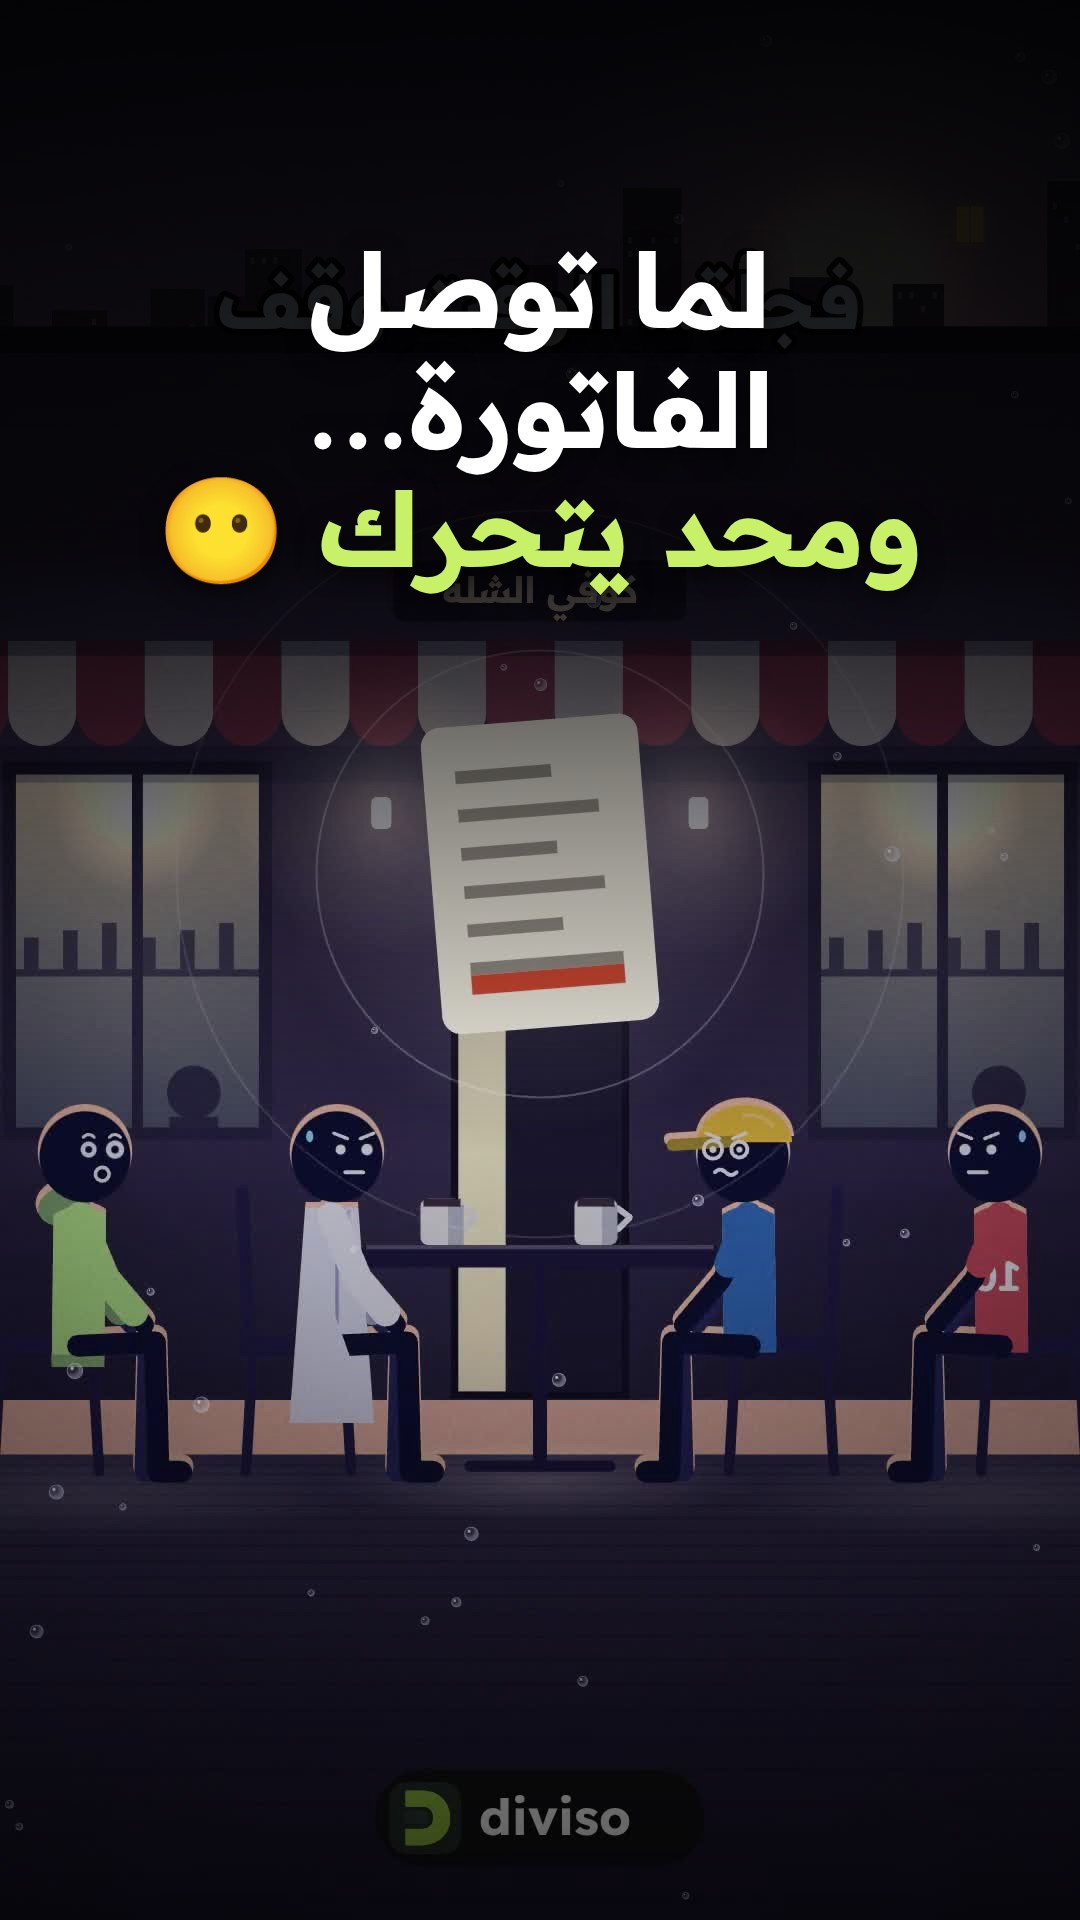
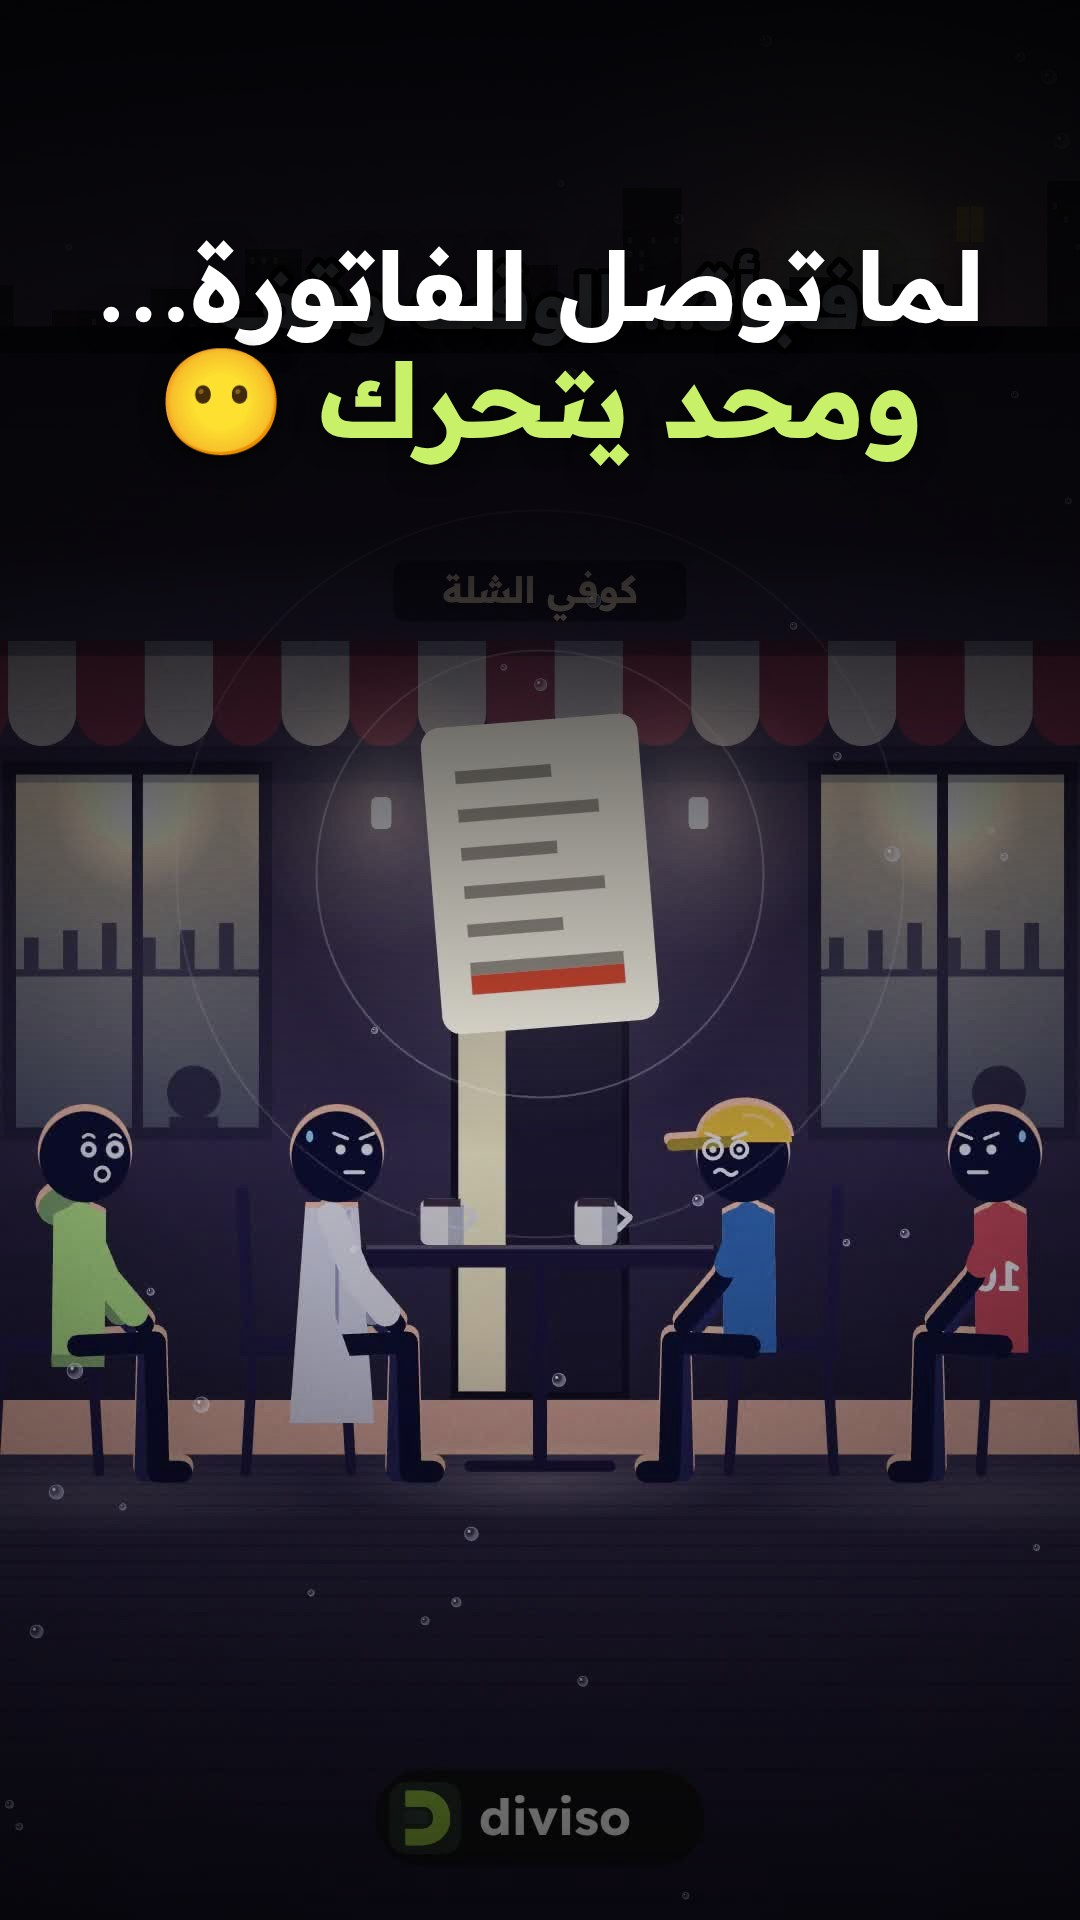
marketing: hook covers J03/M07/K6, cover tool v2 (auto-fit)
Claude-Session: https://claude.ai/code/session_019dGcUpzSaUVHZ4DicqkiRY

Changed region(s): [[0.0917, 0.125, 0.9167, 0.3125]]

diff --git a/public/launch/media/engine/cover.py b/public/launch/media/engine/cover.py
@@ -9,21 +9,22 @@ d = tempfile.mkdtemp(); fr = f'{d}/f.jpg'
 subprocess.run(['ffmpeg', '-v', 'error', '-y', '-ss', sec, '-i', video, '-frames:v', '1', '-vf', 'scale=1080:1920:force_original_aspect_ratio=increase,crop=1080:1920', fr], check=True)
 F = '/home/claude/stickman/fonts'
 pill = '<div class="pill"><img src="file://'+F+'/icon.png"><span>diviso</span></div>' if '--pill' in sys.argv else ''
-rows = ''.join(f'<div class="l{i}">{html.escape(l)}</div>' for i, l in enumerate(lines))
-page = f'''<html><head><style>
+rows = ''.join(f'<div class="l{i}"><span>{html.escape(l)}</span></div>' for i, l in enumerate(lines))
+page = f'''<html><head><meta charset="utf-8"><style>
 @font-face{{font-family:R;src:url('file://{F}/readex-pro-arabic-700-normal.woff2');font-weight:700}}
 @font-face{{font-family:R;src:url('file://{F}/readex-pro-latin-700-normal.woff2');font-weight:700;unicode-range:U+0000-00FF}}
 body{{margin:0;width:1080px;height:1920px;position:relative;overflow:hidden;font-family:R;direction:rtl}}
 .bg{{position:absolute;inset:0;background:url('file://{fr}') center/cover}}
 .sh{{position:absolute;inset:0;background:linear-gradient(180deg,rgba(0,0,0,.92) 0%,rgba(0,0,0,.8) 28%,rgba(0,0,0,.35) 45%,rgba(0,0,0,0) 60%,rgba(0,0,0,.45) 100%)}}
 .t{{position:absolute;top:230px;left:70px;right:70px;text-align:center;color:#fff;font-weight:700;line-height:1.15;text-shadow:0 6px 24px rgba(0,0,0,.6)}}
-.l0{{font-size:104px}} .l1{{font-size:104px;color:#C8F169}} .l2{{font-size:70px;margin-top:20px}}
+.t div{{white-space:nowrap}} .l0{{font-size:104px}} .l1{{font-size:104px;color:#C8F169}} .l2{{font-size:70px;margin-top:20px}}
 .pill{{position:absolute;bottom:260px;left:50%;transform:translateX(-50%);display:flex;align-items:center;gap:20px;background:rgba(13,15,12,.85);border-radius:60px;padding:16px 40px 16px 18px;direction:ltr}}
 .pill img{{width:84px;height:84px;border-radius:22px}} .pill span{{color:#fff;font-size:58px;font-family:R}}
 </style></head><body><div class="bg"></div><div class="sh"></div><div class="t">{rows}</div>
 {pill}</body></html>'''
-open(f'{d}/c.html', 'w').write(page)
+open(f'{d}/c.html', 'w', encoding='utf-8').write(page)
 with sync_playwright() as p:
-    b = p.chromium.launch(); pg = b.new_page(viewport={'width': 1080, 'height': 1920}); pg.goto(f'file://{d}/c.html'); pg.wait_for_timeout(600)
+    b = p.chromium.launch(); pg = b.new_page(viewport={'width': 1080, 'height': 1920}); pg.goto(f'file://{d}/c.html'); pg.evaluate("document.fonts.ready"); pg.wait_for_timeout(300)
+    pg.evaluate("document.querySelectorAll('.t div').forEach(e=>{const sp=e.querySelector('span');let s=parseFloat(getComputedStyle(e).fontSize);while(sp.getBoundingClientRect().width>920&&s>40){s-=4;e.style.fontSize=s+'px'}})"); pg.wait_for_timeout(200)
     pg.screenshot(path=out, type='jpeg', quality=90); b.close()
 print(out)
